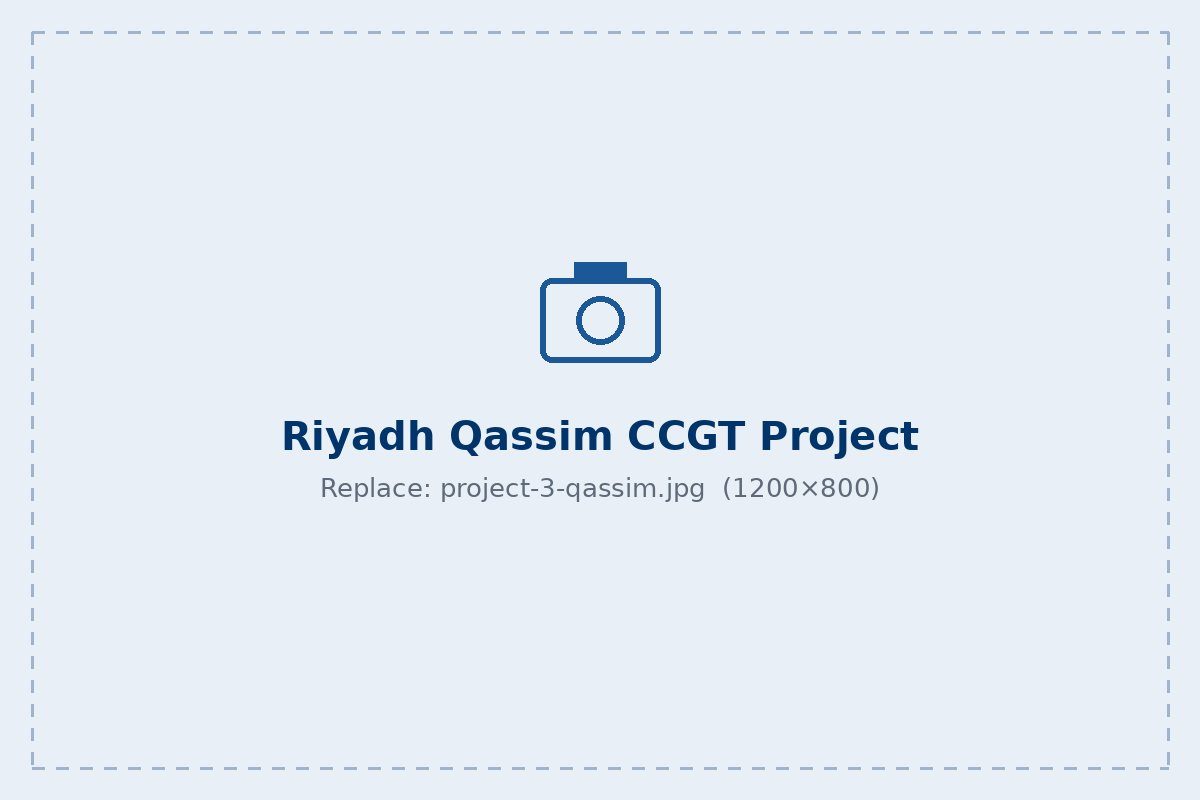
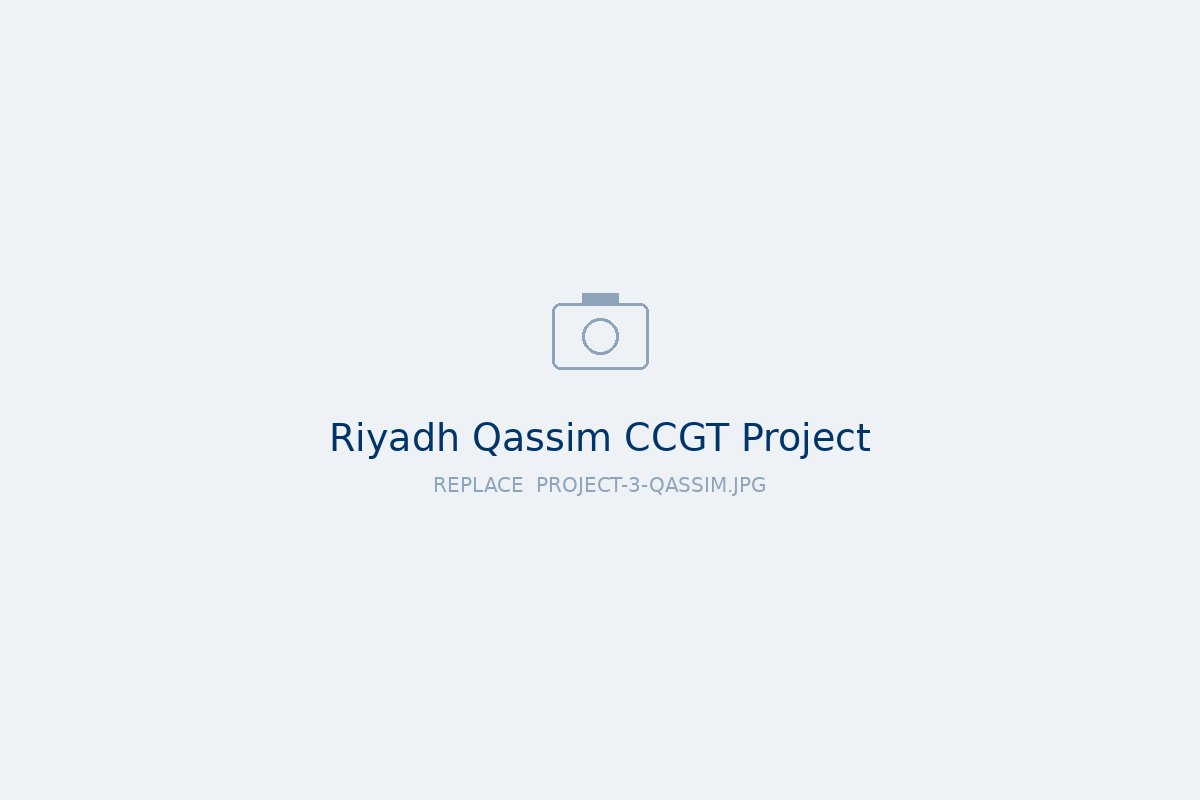
Refine the design: lighter type, open layout, quieter placeholders
Switch to Lato with light headings, italic subtitles and spaced
capital labels (after the Meet the Team reference), replace boxed cards
with open rows and thin rules, and soften the photo placeholders.

Claude-Session: https://claude.ai/code/session_01RTby4RrQXZBZquxnUuQmaH

Changed region(s): [[0.2158, 0.5, 0.7708, 0.625], [0.4317, 0.3125, 0.555, 0.4688]]

diff --git a/allgood-website/styles.css b/allgood-website/styles.css
@@ -4,30 +4,31 @@
   --navy: #00346a;   /* logo wordmark */
   --blue: #1b5897;   /* logo ring */
   --sky: #60c5ef;    /* logo highlight */
-  --ink: #10233a;
-  --muted: #5e6a79;
-  --faint: #9aa4b1;
-  --line: #e3e8ee;
-  --soft: #f5f7fa;
+  --ink: #1d2b3a;
+  --muted: #637080;
+  --faint: #9aa5b2;
+  --line: #e6eaef;
+  --soft: #f6f8fa;
   --white: #fff;
-  --radius: 12px;
-  --max: 1160px;
+  --radius: 4px;
+  --max: 1120px;
 }
 
 *, *::before, *::after { box-sizing: border-box; }
 html { scroll-behavior: smooth; scroll-padding-top: 80px; }
 body {
   margin: 0;
-  font-family: "Manrope", system-ui, -apple-system, "Segoe UI", sans-serif;
-  font-size: 16px; line-height: 1.65;
+  font-family: "Lato", "Helvetica Neue", Arial, sans-serif;
+  font-size: 16px; font-weight: 400; line-height: 1.7;
   color: var(--ink); background: var(--white);
   -webkit-font-smoothing: antialiased;
 }
 img { max-width: 100%; height: auto; display: block; }
 a { color: var(--blue); text-decoration: none; }
-a:hover { text-decoration: underline; }
-h1, h2, h3 { margin: 0; line-height: 1.2; color: var(--navy); text-wrap: balance; }
-h2 { font-size: clamp(26px, 3vw, 36px); font-weight: 700; margin-bottom: 16px; }
+a:hover { color: var(--navy); }
+h1, h2, h3 { margin: 0; line-height: 1.2; color: var(--navy); font-weight: 300; text-wrap: balance; }
+h1 em, h2 em { font-style: normal; color: var(--blue); }
+h2 { font-size: clamp(28px, 3.2vw, 40px); letter-spacing: -.01em; }
 p { margin: 0 0 1em; }
 ul, dl { margin: 0; padding: 0; list-style: none; }
 .muted { color: var(--muted); }
@@ -35,129 +36,145 @@ ul, dl { margin: 0; padding: 0; list-style: none; }
 
 .photo { width: 100%; aspect-ratio: 4 / 3; object-fit: cover; border-radius: var(--radius); background: var(--soft); }
 
+/* small labels: short rule + spaced capitals */
+.eyebrow {
+  display: flex; align-items: center; gap: 14px;
+  margin: 0 0 18px;
+  font-size: 12px; font-weight: 400; letter-spacing: .24em; text-transform: uppercase; color: var(--faint);
+}
+.eyebrow::before { content: ""; width: 36px; height: 2px; background: var(--line); }
+.subtitle { margin: 12px 0 0; font-size: 19px; font-weight: 300; font-style: italic; color: var(--muted); }
+
 /* buttons */
 .btn {
-  display: inline-block; padding: 12px 22px; border-radius: 999px;
+  display: inline-block; padding: 13px 26px; border-radius: 2px;
   background: var(--navy); color: var(--white); border: 1px solid var(--navy);
-  font-weight: 600; font-size: 15px; transition: background .2s;
+  font-size: 12px; font-weight: 700; letter-spacing: .16em; text-transform: uppercase;
+  transition: background .2s, color .2s, border-color .2s;
 }
-.btn:hover { background: var(--blue); border-color: var(--blue); text-decoration: none; }
-.btn--ghost { background: transparent; color: var(--navy); border-color: var(--line); }
-.btn--ghost:hover { background: var(--soft); border-color: var(--line); }
-.btn--small { padding: 8px 18px; font-size: 14px; }
-.eyebrow { margin: 0 0 12px; font-size: 13px; font-weight: 700; letter-spacing: .14em; text-transform: uppercase; color: var(--blue); }
+.btn:hover { background: var(--blue); border-color: var(--blue); color: var(--white); }
+.btn--ghost { background: transparent; color: var(--navy); border-color: #c9d2dc; }
+.btn--ghost:hover { background: transparent; color: var(--blue); border-color: var(--blue); }
+.btn--small { padding: 9px 18px; }
 
 /* header */
-.header { position: sticky; top: 0; z-index: 50; background: rgba(255,255,255,.95); backdrop-filter: blur(8px); border-bottom: 1px solid var(--line); }
-.header__inner { display: flex; align-items: center; justify-content: space-between; height: 72px; }
-.brand { display: flex; align-items: center; gap: 10px; color: var(--navy); }
-.brand:hover { text-decoration: none; }
+.header { position: sticky; top: 0; z-index: 50; background: rgba(255,255,255,.96); backdrop-filter: blur(8px); border-bottom: 1px solid var(--line); }
+.header__inner { display: flex; align-items: center; justify-content: space-between; height: 76px; }
+.brand { display: flex; align-items: center; gap: 12px; color: var(--navy); }
 .brand img { width: 40px; height: 40px; }
-.footer .brand img { width: 32px; height: 32px; }
-.brand__text { display: flex; flex-direction: column; line-height: 1.1; }
-.brand__text strong { font-size: 18px; font-weight: 800; letter-spacing: .04em; }
-.brand__text small { font-size: 11px; font-weight: 600; letter-spacing: .12em; text-transform: uppercase; color: var(--muted); }
-.nav { display: flex; align-items: center; gap: 28px; }
-.nav a:not(.btn) { color: var(--ink); font-weight: 500; font-size: 15px; }
-.nav a:not(.btn):hover { color: var(--blue); text-decoration: none; }
+.footer .brand img { width: 30px; height: 30px; }
+.brand__text { display: flex; flex-direction: column; line-height: 1.15; }
+.brand__text strong { font-size: 17px; font-weight: 700; letter-spacing: .12em; }
+.brand__text small { font-size: 10px; font-weight: 400; letter-spacing: .26em; text-transform: uppercase; color: var(--faint); }
+.nav { display: flex; align-items: center; gap: 34px; }
+.nav a:not(.btn) { color: var(--ink); font-size: 13px; letter-spacing: .14em; text-transform: uppercase; }
+.nav a:not(.btn):hover { color: var(--blue); }
 .nav-toggle { display: none; width: 40px; height: 40px; border: 0; background: none; cursor: pointer; flex-direction: column; justify-content: center; gap: 6px; padding: 8px; }
-.nav-toggle span { display: block; height: 2px; background: var(--navy); border-radius: 2px; transition: transform .2s; }
+.nav-toggle span { display: block; height: 1.5px; background: var(--navy); transition: transform .2s; }
 .nav-toggle[aria-expanded="true"] span:first-child { transform: translateY(4px) rotate(45deg); }
 .nav-toggle[aria-expanded="true"] span:last-child { transform: translateY(-4px) rotate(-45deg); }
 
 /* hero */
-.hero { padding: 72px 0 56px; }
-.hero__inner { display: grid; grid-template-columns: 1.15fr .85fr; gap: 56px; align-items: center; }
-.hero h1 { font-size: clamp(32px, 4.4vw, 50px); font-weight: 800; letter-spacing: -.02em; margin-bottom: 20px; }
-.lead { font-size: 18px; color: var(--muted); max-width: 540px; }
-.actions { display: flex; flex-wrap: wrap; gap: 12px; margin-top: 28px; }
-.hero__photo { aspect-ratio: 1 / 1; }
-.stats { display: grid; grid-template-columns: repeat(4, 1fr); margin-top: 56px; border-top: 1px solid var(--line); }
-.stats li { padding: 24px 0 0; }
-.stats li + li { padding-left: 24px; border-left: 1px solid var(--line); }
-.stats strong { display: block; font-size: 32px; font-weight: 800; color: var(--navy); line-height: 1.1; }
-.stats span { font-size: 14px; color: var(--muted); }
+.hero { padding: 96px 0 72px; }
+.hero__inner { display: grid; grid-template-columns: 1.1fr .9fr; gap: 72px; align-items: center; }
+.hero h1 { font-size: clamp(34px, 4.6vw, 54px); font-weight: 300; letter-spacing: -.015em; line-height: 1.15; margin-bottom: 24px; }
+.lead { font-size: 19px; font-weight: 300; font-style: italic; color: var(--muted); max-width: 500px; }
+.actions { display: flex; flex-wrap: wrap; gap: 14px; margin-top: 36px; }
+.hero__photo { aspect-ratio: 4 / 5; }
+.stats { display: grid; grid-template-columns: repeat(4, 1fr); margin-top: 80px; border-top: 1px solid var(--line); }
+.stats li { padding: 28px 0 0; }
+.stats li + li { padding-left: 28px; border-left: 1px solid var(--line); }
+.stats strong { display: block; font-size: 40px; font-weight: 300; color: var(--navy); line-height: 1.1; }
+.stats span { font-size: 12px; letter-spacing: .14em; text-transform: uppercase; color: var(--faint); }
 
 /* sections */
-.section { padding: 96px 0; }
+.section { padding: 120px 0; }
 .section--soft { background: var(--soft); }
-.section__head { max-width: 680px; margin-bottom: 40px; }
+.section__head { max-width: 640px; margin-bottom: 64px; }
 .section__head--center { margin-left: auto; margin-right: auto; text-align: center; }
+.section__head--center .eyebrow { justify-content: center; }
 
 /* about */
-.split { display: grid; grid-template-columns: 1fr 1fr; gap: 56px; align-items: center; }
-.mv { display: grid; gap: 4px 0; margin: 24px 0; }
-.mv dt { font-weight: 700; color: var(--navy); }
-.mv dd { margin: 0 0 12px; color: var(--muted); font-size: 15px; }
-.chips { display: flex; flex-wrap: wrap; gap: 8px; }
-.chips li { padding: 6px 16px; border: 1px solid var(--line); border-radius: 999px; font-size: 14px; font-weight: 600; color: var(--navy); }
+.split { display: grid; grid-template-columns: 1fr 1fr; gap: 80px; align-items: center; }
+.split h2 { margin-bottom: 24px; }
+.mv { margin: 32px 0; display: grid; gap: 20px; }
+.mv dt { font-size: 12px; letter-spacing: .2em; text-transform: uppercase; color: var(--faint); margin-bottom: 4px; }
+.mv dd { margin: 0; font-size: 17px; font-weight: 300; font-style: italic; color: var(--ink); }
+.values { display: flex; flex-wrap: wrap; margin: 0; }
+.values span { font-size: 12px; font-weight: 700; letter-spacing: .2em; text-transform: uppercase; color: var(--navy); }
+.values span + span::before { content: "·"; margin: 0 14px; color: var(--sky); }
 
-/* services: one row per business unit, photo alternating sides */
-.units { display: grid; gap: 24px; }
-.unit {
-  display: grid; grid-template-columns: 1fr 1fr; gap: 48px; align-items: center;
-  background: var(--white); border: 1px solid var(--line); border-radius: var(--radius); padding: 24px;
-}
+/* services: open rows, photo alternating sides, thin rules between */
+.units { display: grid; }
+.unit { display: grid; grid-template-columns: 1fr 1fr; gap: 80px; align-items: center; padding: 56px 0; }
+.unit + .unit { border-top: 1px solid var(--line); }
+.unit:first-child { padding-top: 0; }
+.unit:last-child { padding-bottom: 0; }
 .unit:nth-child(even) .photo { order: 2; }
-.unit__text { padding: 8px 16px; }
-.unit h3 { font-size: 24px; margin-bottom: 10px; display: flex; flex-wrap: wrap; align-items: center; gap: 10px; }
-.ticks { display: grid; grid-template-columns: 1fr 1fr; gap: 8px 20px; margin-top: 8px; }
-.ticks li { position: relative; padding-left: 18px; font-size: 15px; }
-.ticks li::before { content: ""; position: absolute; left: 0; top: .65em; width: 7px; height: 7px; border-radius: 50%; background: var(--sky); }
-.badge { font-size: 12px; font-weight: 700; padding: 3px 10px; border-radius: 999px; background: #e6f5fc; color: var(--blue); }
+.unit h3 { font-size: 30px; margin-bottom: 14px; display: flex; flex-wrap: wrap; align-items: baseline; gap: 14px; }
+.unit .muted { font-size: 17px; font-weight: 300; max-width: 460px; }
+.ticks { display: grid; grid-template-columns: 1fr 1fr; gap: 0 32px; margin-top: 12px; border-top: 1px solid var(--line); }
+.ticks li { padding: 11px 0; border-bottom: 1px solid var(--line); font-size: 15px; }
+.badge { font-size: 11px; font-weight: 700; letter-spacing: .18em; text-transform: uppercase; color: var(--blue); }
 
 /* projects: two large, then three */
-.projects { display: grid; grid-template-columns: repeat(6, 1fr); gap: 24px; }
+.projects { display: grid; grid-template-columns: repeat(6, 1fr); gap: 56px 32px; }
 .project { grid-column: span 2; }
 .project--wide { grid-column: span 3; }
-.project .photo { aspect-ratio: 3 / 2; margin-bottom: 16px; }
-.project__tag { font-size: 12px; font-weight: 700; letter-spacing: .08em; text-transform: uppercase; color: var(--blue); margin-bottom: 4px; }
-.project h3 { font-size: 19px; margin-bottom: 6px; }
-.project p.muted { font-size: 15px; margin: 0; }
+.project .photo { aspect-ratio: 3 / 2; margin-bottom: 22px; }
+.project__tag { font-size: 11px; letter-spacing: .22em; text-transform: uppercase; color: var(--faint); margin-bottom: 6px; }
+.project h3 { font-size: 22px; margin-bottom: 8px; }
+.project p.muted { font-size: 15px; font-style: italic; font-weight: 300; margin: 0; }
 
 /* partners */
-.tabs { display: flex; flex-wrap: wrap; justify-content: center; gap: 8px; margin-bottom: 32px; }
-.tab { font: inherit; font-size: 14px; font-weight: 600; padding: 7px 18px; border-radius: 999px; border: 1px solid #cdd4dd; background: var(--white); color: var(--ink); cursor: pointer; }
-.tab:hover { border-color: var(--navy); }
-.tab.is-active { background: var(--navy); border-color: var(--navy); color: var(--white); }
-.tab:focus-visible, .btn:focus-visible, a:focus-visible { outline: 2px solid var(--sky); outline-offset: 2px; }
-.logo-grid { display: grid; grid-template-columns: repeat(4, 1fr); gap: 16px; max-width: 900px; margin: 0 auto; }
+.tabs { display: flex; flex-wrap: wrap; justify-content: center; gap: 36px; margin-bottom: 48px; }
+.tab {
+  font: inherit; font-size: 12px; letter-spacing: .2em; text-transform: uppercase;
+  padding: 6px 0; border: 0; border-bottom: 2px solid transparent; background: none; color: var(--faint); cursor: pointer;
+}
+.tab:hover { color: var(--navy); }
+.tab.is-active { color: var(--navy); border-bottom-color: var(--sky); }
+.tab:focus-visible, .btn:focus-visible, a:focus-visible { outline: 2px solid var(--sky); outline-offset: 3px; }
+.logo-grid { display: grid; grid-template-columns: repeat(4, 1fr); max-width: 880px; margin: 0 auto; border-top: 1px solid var(--line); border-left: 1px solid var(--line); }
 .logo-grid[hidden] { display: none; }
-.logo-card { display: grid; place-items: center; text-align: center; min-height: 96px; padding: 16px; background: var(--white); border: 1px solid var(--line); border-radius: 8px; font-size: 17px; font-weight: 800; color: var(--navy); }
+.logo-card {
+  display: grid; place-items: center; text-align: center; min-height: 110px; padding: 16px;
+  border-right: 1px solid var(--line); border-bottom: 1px solid var(--line); background: var(--white);
+  font-size: 18px; font-weight: 400; letter-spacing: .04em; color: var(--navy);
+}
 
 /* contact (team-card style) */
-.contact { display: grid; grid-template-columns: 1.3fr 1fr; gap: 48px; align-items: end; }
-.person { display: grid; grid-template-columns: 120px 1fr; gap: 28px; margin-top: 24px; }
-.person__side { display: flex; flex-direction: column; align-items: center; gap: 14px; }
+.contact { display: grid; grid-template-columns: 1.2fr 1fr; gap: 80px; align-items: end; }
+.person { display: grid; grid-template-columns: 120px 1fr; gap: 32px; margin-top: 40px; }
+.person__side { display: flex; flex-direction: column; align-items: center; gap: 16px; }
 .person__photo { width: 110px; height: 110px; border-radius: 50%; object-fit: cover; }
-.person__icons { display: flex; gap: 12px; }
+.person__icons { display: flex; gap: 14px; }
 .person__icons a { color: var(--blue); display: inline-flex; }
 .person__icons a:hover { color: var(--navy); }
-.person__icons svg { width: 18px; height: 18px; fill: currentColor; }
-.person__rule { display: block; width: 36px; height: 3px; background: var(--line); margin: 6px 0 20px; }
-.person__name { font-size: 15px; font-weight: 500; letter-spacing: .18em; text-transform: uppercase; color: var(--faint); }
-.person__role { font-style: italic; font-size: 18px; color: var(--muted); margin: 4px 0 12px; }
-.card { background: var(--soft); border-radius: var(--radius); padding: 28px; }
-.lines { margin-bottom: 20px; }
-.lines li { display: flex; gap: 12px; padding: 10px 0; border-bottom: 1px solid var(--line); font-size: 15px; }
-.lines span { width: 96px; flex: none; color: var(--faint); }
+.person__icons svg { width: 17px; height: 17px; fill: currentColor; }
+.person__rule { display: block; width: 36px; height: 2px; background: var(--line); margin: 6px 0 20px; }
+.person__name { font-size: 14px; font-weight: 400; letter-spacing: .22em; text-transform: uppercase; color: var(--faint); }
+.person__role { font-style: italic; font-weight: 300; font-size: 19px; color: var(--muted); margin: 4px 0 14px; }
+.card { border-top: 2px solid var(--navy); padding-top: 8px; }
+.lines { margin-bottom: 28px; }
+.lines li { display: flex; gap: 16px; padding: 14px 0; border-bottom: 1px solid var(--line); font-size: 16px; }
+.lines span { width: 110px; flex: none; font-size: 11px; letter-spacing: .2em; text-transform: uppercase; color: var(--faint); padding-top: 3px; }
 
 /* footer */
-.footer { border-top: 1px solid var(--line); padding: 28px 0; }
+.footer { border-top: 1px solid var(--line); padding: 32px 0; }
 .footer__inner { display: flex; flex-wrap: wrap; justify-content: space-between; align-items: center; gap: 16px; }
-.footer p { margin: 0; font-size: 14px; color: var(--muted); }
+.footer p { margin: 0; font-size: 13px; color: var(--faint); }
 
 @media (prefers-reduced-motion: reduce) { html { scroll-behavior: auto; } }
 
 /* tablet */
 @media (max-width: 960px) {
-  .hero__inner, .split, .contact { grid-template-columns: 1fr; gap: 36px; }
+  .hero__inner, .split, .contact { grid-template-columns: 1fr; gap: 48px; }
   .hero__photo { aspect-ratio: 16 / 10; }
-  .stats { grid-template-columns: repeat(2, 1fr); }
+  .stats { grid-template-columns: repeat(2, 1fr); row-gap: 28px; }
   .stats li:nth-child(3) { padding-left: 0; border-left: 0; }
-  .unit { grid-template-columns: 1fr; gap: 20px; }
+  .unit { grid-template-columns: 1fr; gap: 32px; }
   .unit:nth-child(even) .photo { order: 0; }
-  .unit__text { padding: 0 4px 4px; }
   .projects { grid-template-columns: 1fr 1fr; }
   .project, .project--wide { grid-column: span 1; }
 }
@@ -165,18 +182,23 @@ ul, dl { margin: 0; padding: 0; list-style: none; }
 /* phone */
 @media (max-width: 760px) {
   .nav-toggle { display: flex; }
-  .nav { position: absolute; top: 72px; left: 0; right: 0; flex-direction: column; align-items: stretch; gap: 0; background: var(--white); border-bottom: 1px solid var(--line); padding: 8px 16px 20px; display: none; }
+  .nav { position: absolute; top: 76px; left: 0; right: 0; flex-direction: column; align-items: stretch; gap: 0; background: var(--white); border-bottom: 1px solid var(--line); padding: 8px 16px 20px; display: none; }
   .nav.is-open { display: flex; }
-  .nav a:not(.btn) { padding: 12px 0; border-bottom: 1px solid var(--line); }
-  .nav .btn { margin-top: 16px; text-align: center; }
+  .nav a:not(.btn) { padding: 14px 0; border-bottom: 1px solid var(--line); }
+  .nav .btn { margin-top: 18px; text-align: center; }
   .container { padding: 0 16px; }
-  .hero { padding: 40px 0; }
-  .section { padding: 64px 0; }
-  .unit { padding: 16px; }
+  .hero { padding: 48px 0; }
+  .stats { margin-top: 48px; }
+  .stats strong { font-size: 32px; }
+  .section { padding: 72px 0; }
+  .section__head { margin-bottom: 40px; }
+  .unit { padding: 40px 0; }
+  .unit h3 { font-size: 26px; }
   .ticks { grid-template-columns: 1fr; }
-  .projects { grid-template-columns: 1fr; }
-  .logo-grid { grid-template-columns: repeat(2, 1fr); gap: 12px; }
-  .person { grid-template-columns: 1fr; }
+  .projects { grid-template-columns: 1fr; row-gap: 40px; }
+  .tabs { gap: 20px; }
+  .logo-grid { grid-template-columns: repeat(2, 1fr); }
+  .person { grid-template-columns: 1fr; gap: 20px; }
   .person__side { flex-direction: row; align-items: center; }
   .person__photo { width: 80px; height: 80px; }
 }

diff --git a/allgood-website/index.html b/allgood-website/index.html
@@ -8,7 +8,7 @@
   <link rel="icon" type="image/png" href="assets/favicon.png">
   <link rel="preconnect" href="https://fonts.googleapis.com">
   <link rel="preconnect" href="https://fonts.gstatic.com" crossorigin>
-  <link href="https://fonts.googleapis.com/css2?family=Manrope:wght@400;500;600;700;800&display=swap" rel="stylesheet">
+  <link href="https://fonts.googleapis.com/css2?family=Lato:ital,wght@0,300;0,400;0,700;1,300;1,400&display=swap" rel="stylesheet">
   <link rel="stylesheet" href="styles.css">
 </head>
 <body>
@@ -39,7 +39,7 @@
     <div class="container hero__inner">
       <div>
         <p class="eyebrow">Riyadh · Dammam · Jeddah</p>
-        <h1>Industrial supply and engineering services for Saudi Arabia's energy projects.</h1>
+        <h1>Industrial supply and engineering services for Saudi Arabia's <em>energy projects</em>.</h1>
         <p class="lead">Materials, fabrication, construction and equipment for industrial, petrochemical, power and infrastructure projects, from one partner.</p>
         <div class="actions">
           <a href="#contact" class="btn">Request a quote</a>
@@ -72,9 +72,7 @@
           <dt>Vision</dt>
           <dd>To be the most trusted industrial trading and engineering service group in the Middle East, taking part in Saudi Vision 2030.</dd>
         </dl>
-        <ul class="chips" aria-label="Core values">
-          <li>Integrity</li><li>Excellence</li><li>Innovation</li><li>Win-Win</li>
-        </ul>
+        <p class="values"><span>Integrity</span><span>Excellence</span><span>Innovation</span><span>Win-Win</span></p>
       </div>
     </div>
   </section>
@@ -85,6 +83,7 @@
       <header class="section__head">
         <p class="eyebrow">What we do</p>
         <h2>Our five business units</h2>
+        <p class="subtitle">Everything an energy project needs, from one partner.</p>
       </header>
 
       <div class="units">
@@ -175,6 +174,7 @@
       <header class="section__head">
         <p class="eyebrow">Projects</p>
         <h2>Selected projects</h2>
+        <p class="subtitle">Delivered with world-class EPC contractors across the Kingdom.</p>
       </header>
 
       <div class="projects">
